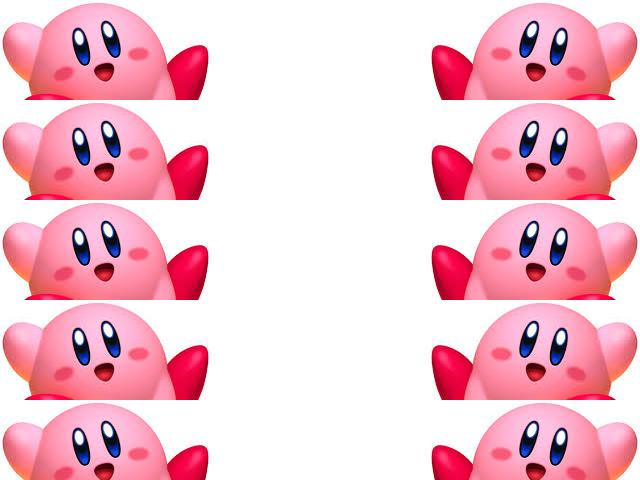
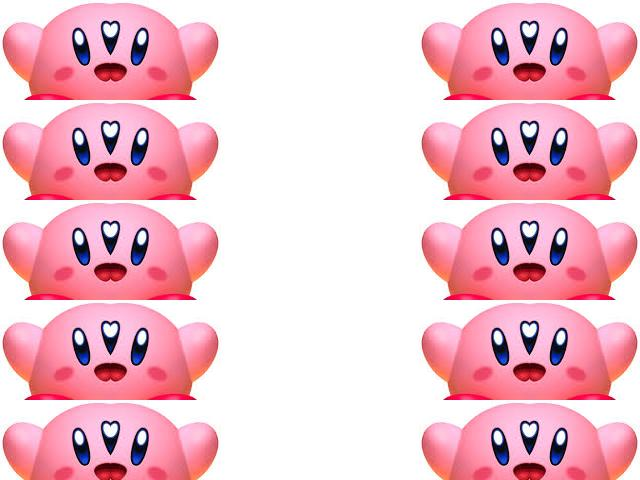
experimented with different methods.

Changed region(s): [[0.6562, 0.0, 0.8438, 1.0], [0.1562, 0.0, 0.3438, 1.0]]

diff --git a/src/pixLab/classes/Picture.java b/src/pixLab/classes/Picture.java
@@ -114,22 +114,22 @@ public class Picture extends SimplePicture
   /** Method that mirrors the picture around a 
     * vertical mirror in the center of the picture
     * from left to right */
-  //public void mirrorVertical()
-  //{
-    //Pixel[][] pixels = this.getPixels2D();
-    //Pixel leftPixel = null;
-    //Pixel rightPixel = null;
-    //int width = pixels[0].length;
-    //for (int row = 0; row < pixels.length; row++)
-    //{
-      //for (int col = 0; col < width / 2; col++)
-      //{
-        //leftPixel = pixels[row][col];
-        //rightPixel = pixels[row][width - 1 - col];
-        //rightPixel.setColor(leftPixel.getColor());
-      //}
-    //} 
-  //}
+  public void mirrorVertical()
+  {
+    Pixel[][] pixels = this.getPixels2D();
+    Pixel leftPixel = null;
+    Pixel rightPixel = null;
+    int width = pixels[0].length;
+    for (int row = 0; row < pixels.length; row++)
+    {
+      for (int col = 0; col < width / 2; col++)
+      {
+        leftPixel = pixels[row][col];
+        rightPixel = pixels[row][width - 1 - col];
+        rightPixel.setColor(leftPixel.getColor());
+      }
+    } 
+  }
 
   
   	 public void mirrorHorizontal()
@@ -331,6 +331,17 @@ public class Picture extends SimplePicture
 	      }
 	    } 
 	  }
+  //{
+	//Picture kirby1 = new Picture("Kirby.jpeg");
+	//this.copy(kirby1,0,0);
+	//this.copy(kirby1,100,0);
+	//this.copy(kirby1,200,0);
+	//this.copy(kirby1,300,0);
+	//this.copy(kirby1,400,0);
+	//this.copy(kirby1,500,0);
+	//this.mirrorVertical();
+	//this.write("collage.jpg");
+  //}
   
   
   /* Main method for testing - each class in Java can have a main 

diff --git a/src/pixLab/classes/PictureTester.java b/src/pixLab/classes/PictureTester.java
@@ -105,7 +105,7 @@ public class PictureTester
     //testMirrorArms();
     //testMirrorGull();
     //testMirrorDiagonal();
-    //testCollage();
+    testCollage();
     //testCopy();
     testEdgeDetection();
     //testEdgeDetection2();
